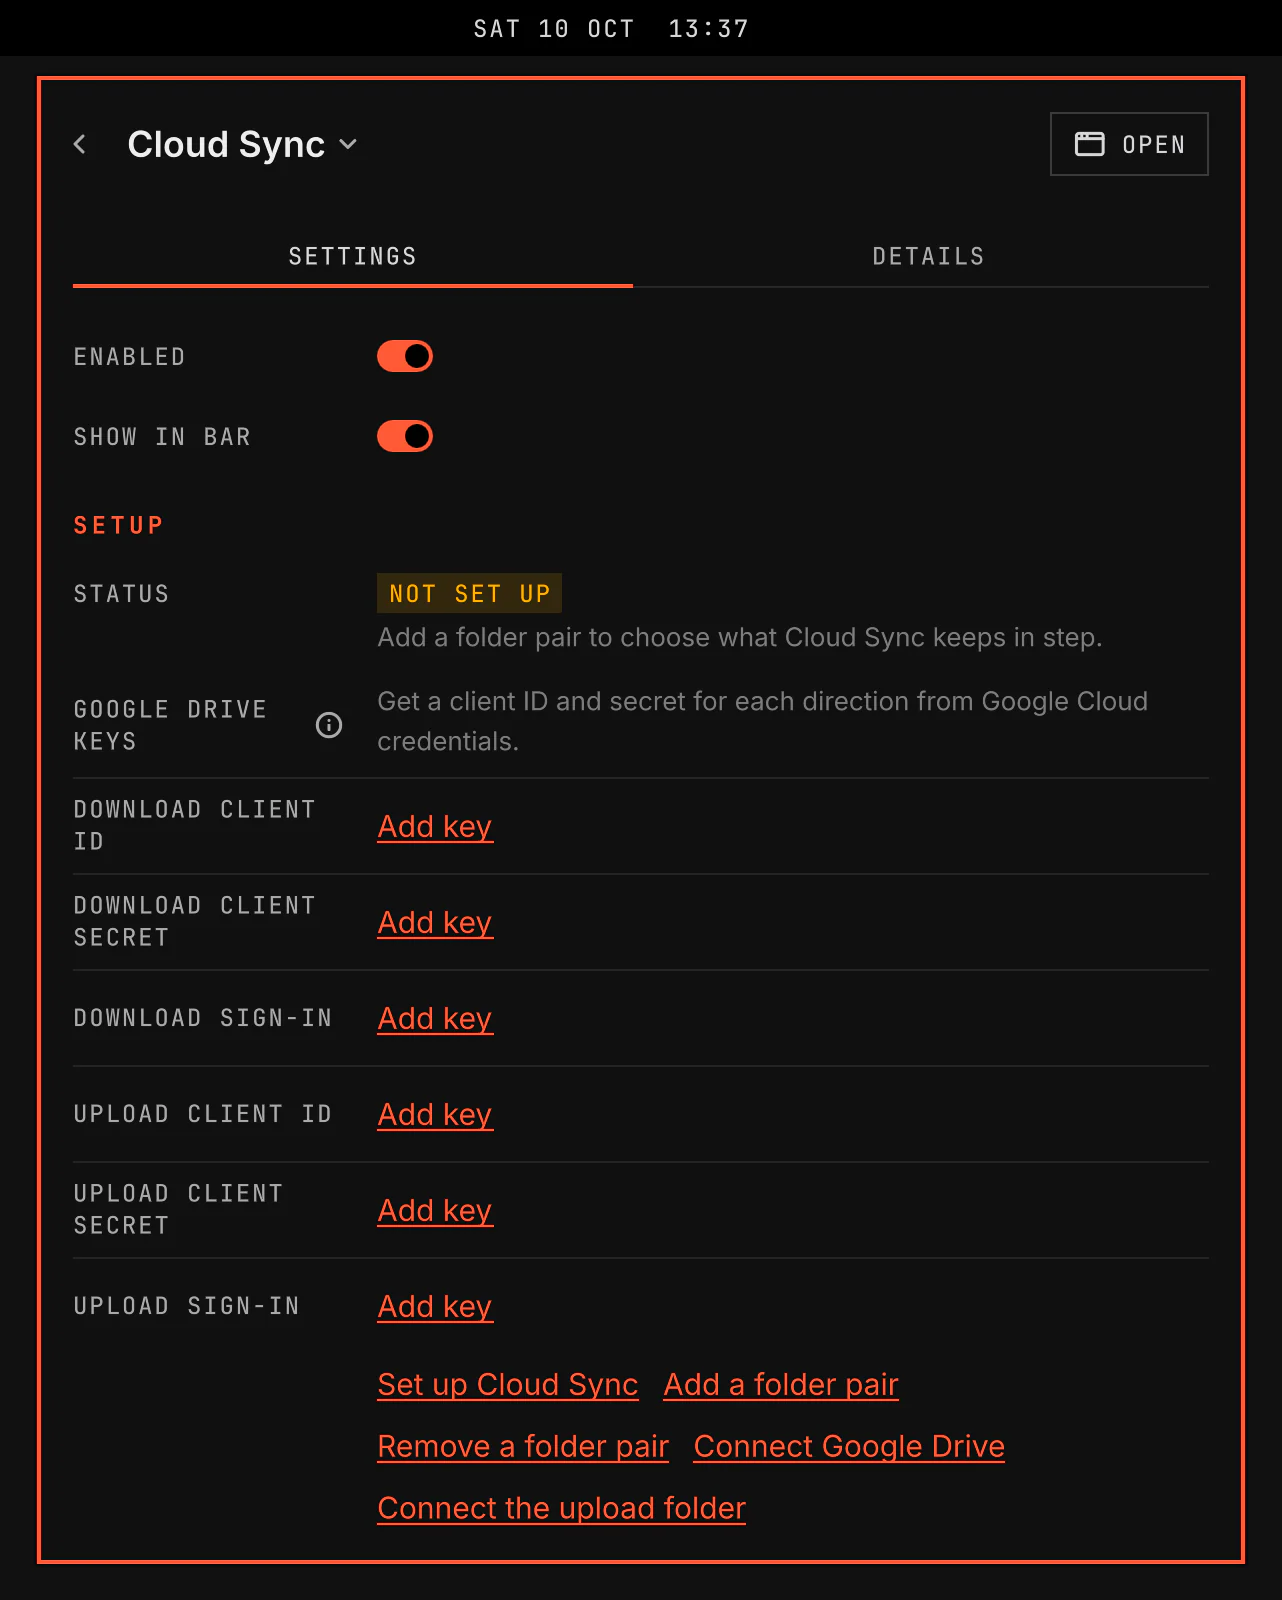
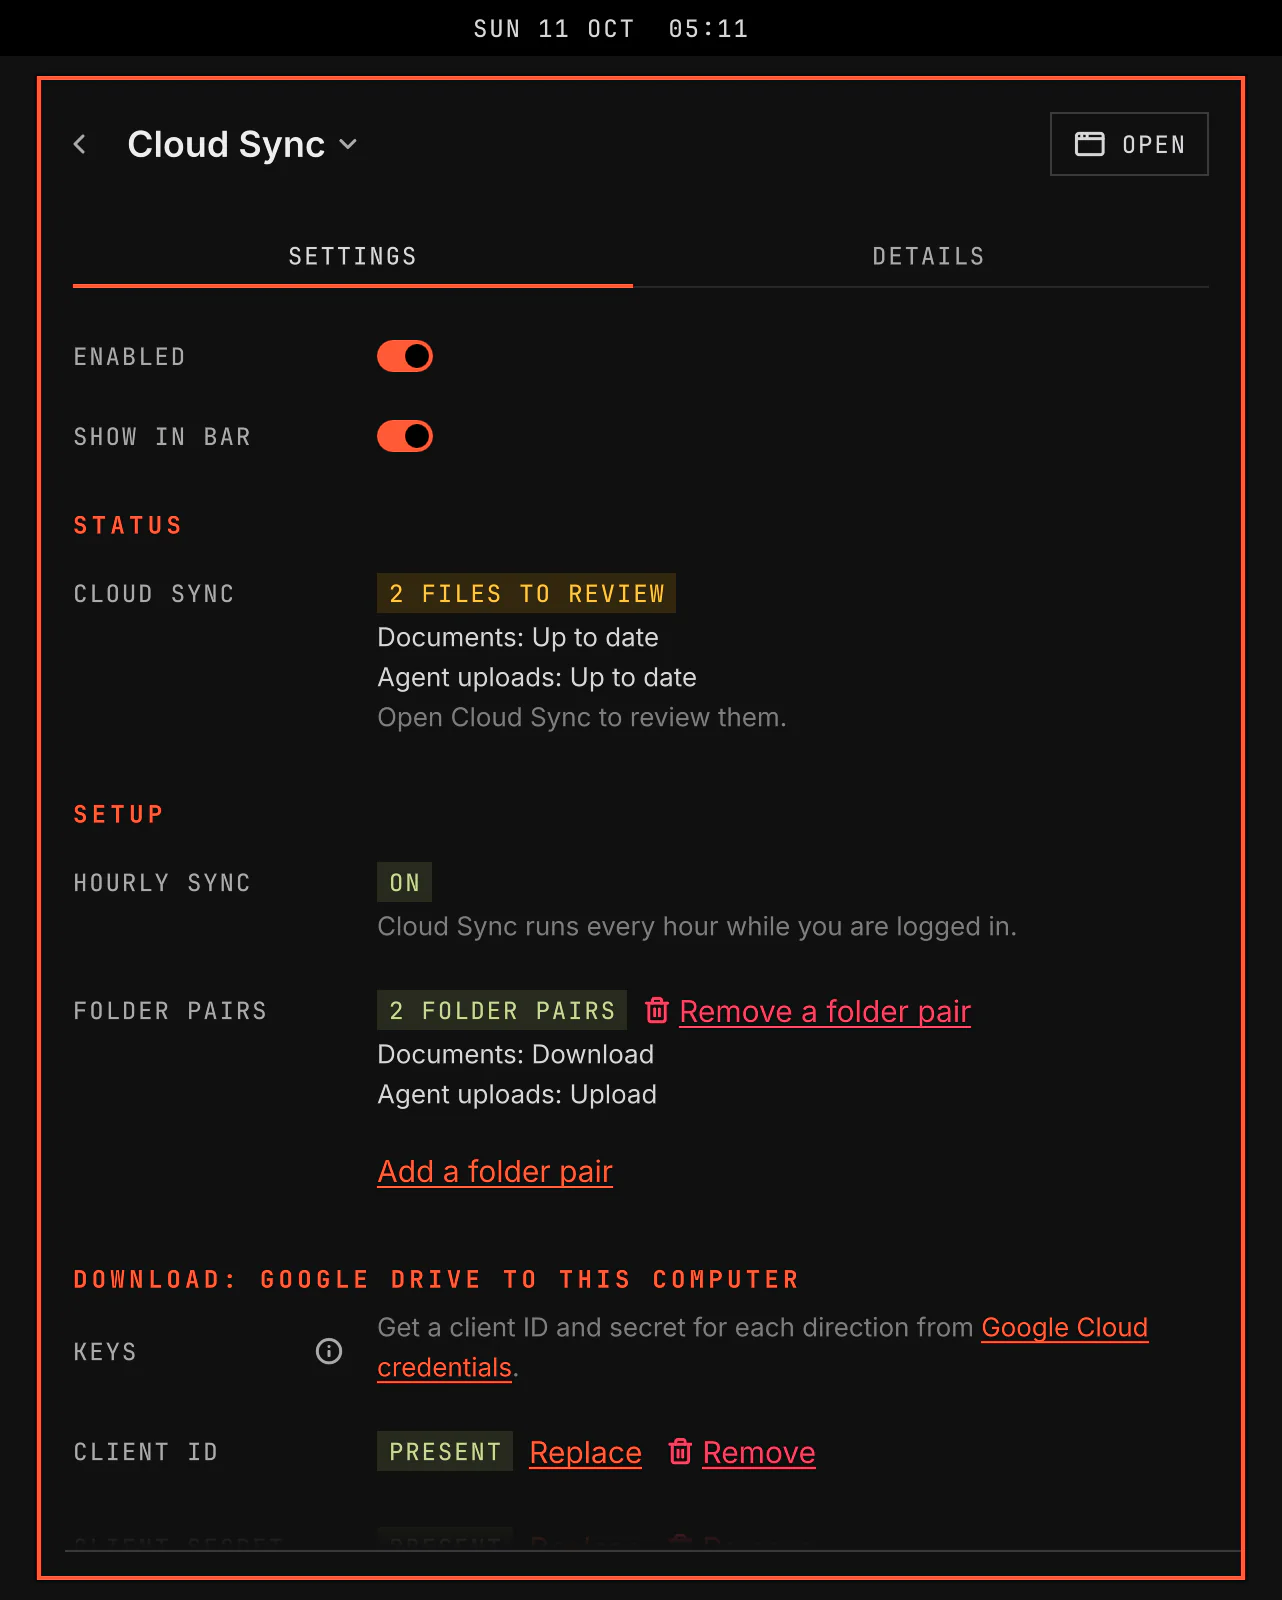
test(VGS-1316): add a cloudsync shot scene that reads its states from the code
The scene stages each Cloud Sync state through the plugin's own runner
over a local rclone remote and a keyring stand-in, then shoots once the
plugin's CloudSyncLogic.js reads the published values as that state.
The README page image and its shots.tsv row now come from this scene.
test-cloud-sync-scene.js refuses a scene that writes the runner's
status, shows a published status word, or waits for a state the code
cannot reach.

diff --git a/scripts/test-cloud-sync-scene.js b/scripts/test-cloud-sync-scene.js
@@ -1,0 +1,121 @@
+#!/usr/bin/env node
+// The cloudsync scene of scripts/sandbox-shots.sh plants no status: it
+// stages each Cloud Sync state through the plugin's own runner and waits
+// for the plugin's CloudSyncLogic.js to read the published values as that
+// state. This check reads the scene's text, from its `# The cloudsync
+// scene` comment to the end of scene_cloudsync, against that code:
+//   cause        a state's `cs_shots MODE STATE CAUSE [KIND]` line names a
+//                CAUSE CloudSyncLogic.headline never returns.
+//   kind         its KIND is not an error kind the code has words for.
+//   state        a state the issue (VGS-1316) lists has no line: first-run,
+//                no-keys, no-pair, empty-review, paused, syncing, error,
+//                review and pairs-invalid.
+//   state-write  a command line names the runner's state directory,
+//                status.json or control.json and is not an `rm`: the
+//                scene would hand the service a record no run wrote.
+//   words        a command line holds a status word or sentence the code
+//                publishes, which the scene would show rather than read.
+// Each finding is one line `test-cloud-sync-scene: <key>=<value>`; a clean
+// scene prints `test-cloud-sync-scene: ok states=<n>`. Exit 1 on a
+// finding, 2 when the scene cannot be found. The controls then plant one
+// defect per rule in a copy of the text and require that rule's finding.
+"use strict";
+const fs = require("node:fs");
+const path = require("node:path");
+const { load } = require("../bin/lib/qml-library.js");
+
+const root = path.join(__dirname, "..");
+const SHOTS = path.join(root, "scripts", "sandbox-shots.sh");
+const L = load(path.join(root, "shell", "plugins", "vgs.cloud-sync", "CloudSyncLogic.js"));
+const ISSUE_STATES = ["first-run", "no-keys", "no-pair", "empty-review", "paused", "syncing", "error", "review", "pairs-invalid"];
+
+// Every cause headline returns over each runner state, unit state, pair
+// state, review count and data age.
+function headlineCauses() {
+    const causes = new Set();
+    const now = Date.parse("2026-10-11T12:00:00Z");
+    for (const state of L.STATES) for (const units of L.UNITS) for (const pair of [null].concat(L.PAIR_STATES))
+        for (const conflictCount of [0, 1]) for (const staleAfter of [null, now - 1, now + 1]) {
+            const pairs = pair === null ? [] : [{ id: "p", label: "P", direction: "pull", state: pair, lastSuccess: null, staleAfter: staleAfter, lastError: null }];
+            causes.add(L.headline({ state, units, staleAfter, pairs, conflictCount, lastError: null, paused: false }, now).cause);
+        }
+    return causes;
+}
+
+// The words the code publishes: each state's text, each error and
+// conflict sentence, and the review line without its count.
+function publishedWords() {
+    const views = Object.values(L.STATE_VIEW).concat([L.CURRENT, L.OUT_OF_DATE, L.NOT_SYNCED, L.NO_PAIRS]).map(v => v.text);
+    return views.concat(Object.values(L.ERROR_TEXT), Object.values(L.PAGE_ERROR_TEXT), Object.values(L.CONFLICT_TEXT),
+        [L.ERROR_DEFAULT, L.reviewLine(2).replace(/^2 /, ""), L.reviewLine(1).replace(/^1 /, "")]);
+}
+
+function sceneOf(text) {
+    const lines = text.split("\n");
+    const start = lines.findIndex(l => l.startsWith("# The cloudsync scene"));
+    const fn = lines.findIndex(l => l.startsWith("scene_cloudsync()"));
+    if (start < 0 || fn < start) return null;
+    const end = lines.findIndex((l, i) => i > fn && l === "}");
+    return end < 0 ? null : lines.slice(start, end + 1);
+}
+
+function check(text) {
+    const scene = sceneOf(text);
+    if (scene === null) return { scene: false, findings: [] };
+    const causes = headlineCauses(), kinds = new Set(Object.keys(L.ERROR_TEXT).concat(["none"])), words = publishedWords();
+    const findings = [], states = [];
+    // Heredoc bodies are stand-in programs, which hold no status.
+    let heredoc = null;
+    for (const line of scene) {
+        if (heredoc !== null) { if (line === heredoc) heredoc = null; continue; }
+        const open = /<<'?([A-Z]+)'?\s*$/.exec(line);
+        const code = line.trim();
+        if (code.startsWith("#")) continue;
+        const shots = /^cs_shots "\$m" (\d+-)?([a-z-]+) ([a-z-]+)(?: ([a-z-]+))?$/.exec(code);
+        if (shots !== null) {
+            states.push(shots[2]);
+            if (!causes.has(shots[3])) findings.push("cause=" + shots[2] + ":" + shots[3]);
+            if (shots[4] !== undefined && !kinds.has(shots[4])) findings.push("kind=" + shots[2] + ":" + shots[4]);
+        }
+        if (/\.local\/state\/vgshell\/cloud-sync|status\.json|control\.json/.test(code) && !/^rm\s/.test(code)) findings.push("state-write=" + code);
+        for (const word of words) if (code.includes(word)) findings.push("words=" + JSON.stringify(word));
+        if (open !== null) heredoc = open[1];
+    }
+    for (const state of ISSUE_STATES) if (!states.includes(state)) findings.push("state=" + state);
+    return { scene: true, findings, states: states.length };
+}
+
+const text = fs.readFileSync(SHOTS, "utf8");
+const result = check(text);
+if (!result.scene) {
+    console.log("test-cloud-sync-scene: scene=missing path=scripts/sandbox-shots.sh");
+    process.exit(2);
+}
+for (const f of result.findings) console.log("test-cloud-sync-scene: " + f);
+if (result.findings.length > 0) process.exit(1);
+console.log("test-cloud-sync-scene: ok states=" + result.states);
+
+// Controls: one planted defect per rule, each on a copy of the text,
+// requires that rule's finding.
+function plant(from, to) {
+    if (text.split(from).length !== 2) throw new Error("control: " + JSON.stringify(from) + " is not in the scene once");
+    return text.replace(from, () => to);
+}
+const anchor = '  cs_shots "$m" 5-paused paused\n';
+const controls = [
+    ["cause", plant('cs_shots "$m" 8-review review\n', 'cs_shots "$m" 8-review reviewing\n'), "cause=review:reviewing"],
+    ["kind", plant("9-pairs-invalid error pairs-invalid\n", "9-pairs-invalid error pairs-damaged\n"), "kind=pairs-invalid:pairs-damaged"],
+    ["state", plant(anchor, ""), "state=paused"],
+    ["state-write", plant(anchor, anchor + "  printf '{}' >\"$home/.local/state/vgshell/cloud-sync/status.json\"\n"), "state-write="],
+    ["words", plant(anchor, anchor + '  echo "' + L.CURRENT.text + '" >"$cs/headline"\n'), "words=" + JSON.stringify(L.CURRENT.text)]
+];
+let failed = 0;
+for (const [rule, mutant, want] of controls) {
+    const got = check(mutant);
+    if (got.scene && got.findings.some(f => f.startsWith(want))) console.log("test-cloud-sync-scene: control=" + rule + " red");
+    else { console.log("test-cloud-sync-scene: control=" + rule + " stayed-green findings=" + JSON.stringify(got.findings)); failed++; }
+}
+const cut = check(text.replace(/^scene_cloudsync\(\)/m, "scene_cloud()"));
+if (cut.scene) { console.log("test-cloud-sync-scene: control=scene stayed-found"); failed++; }
+else console.log("test-cloud-sync-scene: control=scene red");
+process.exit(failed === 0 ? 0 : 1);
